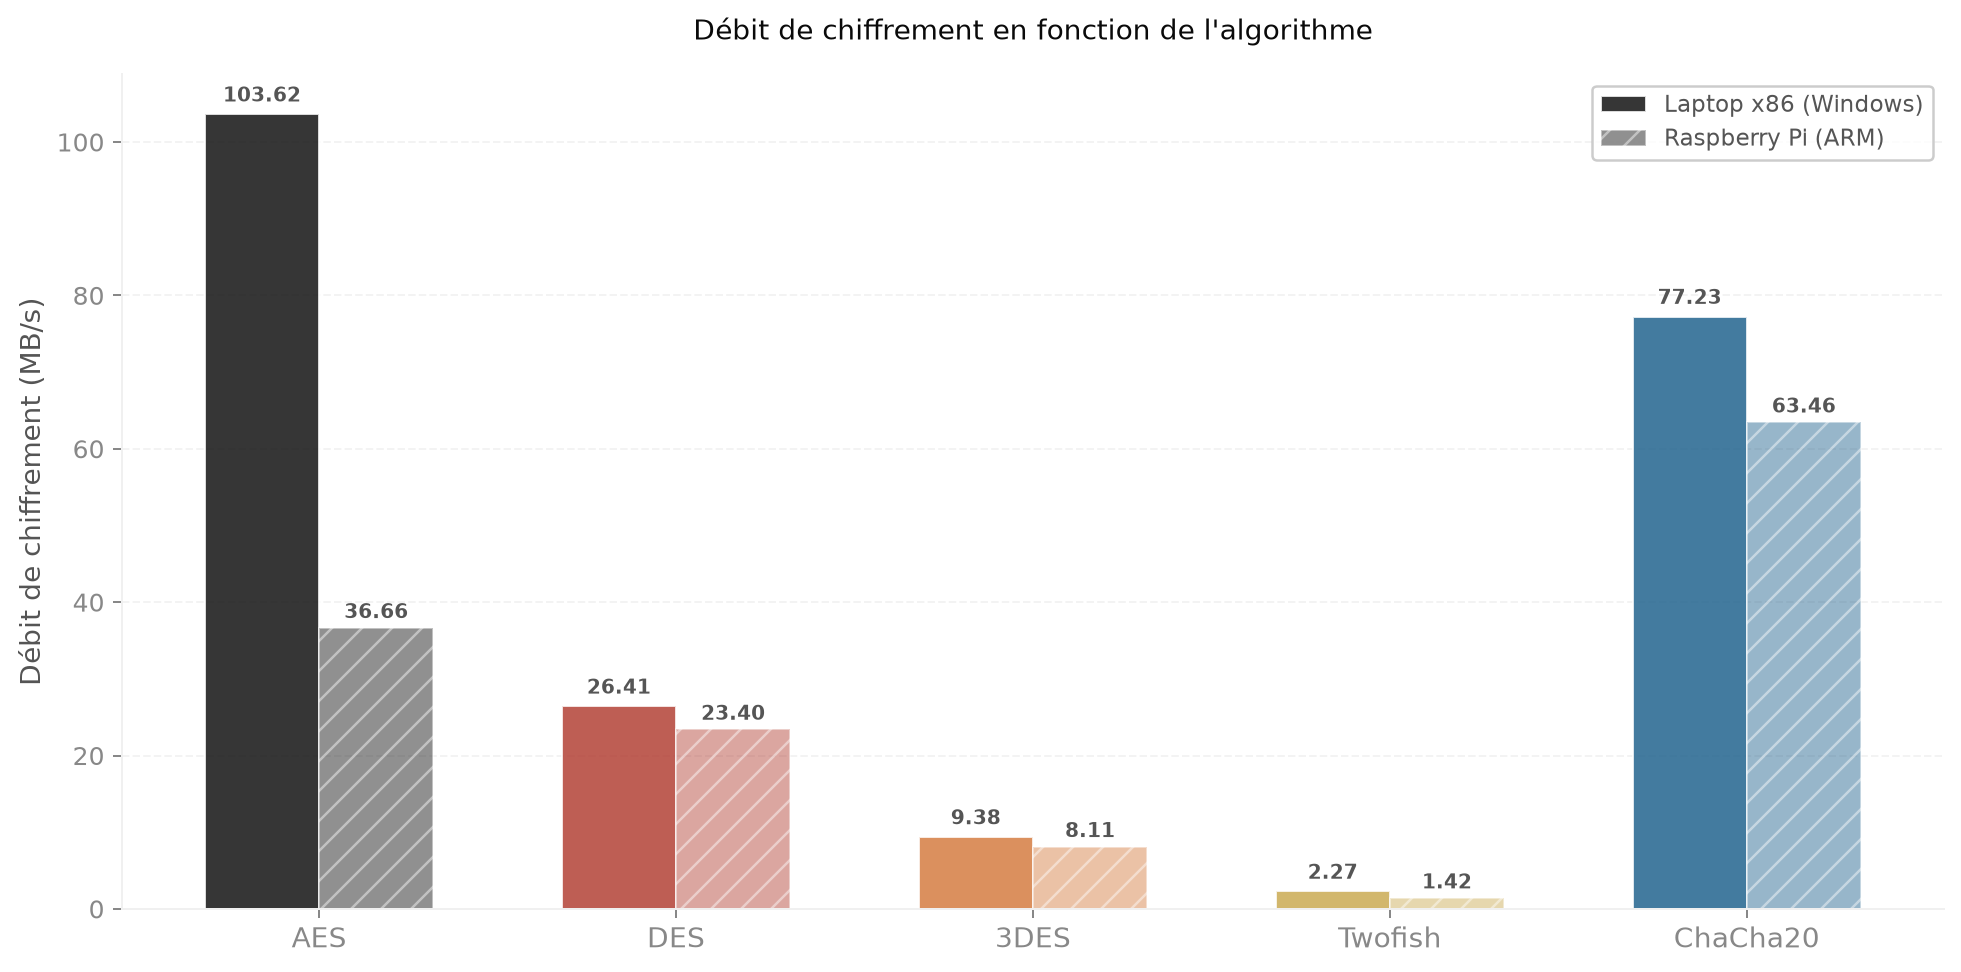
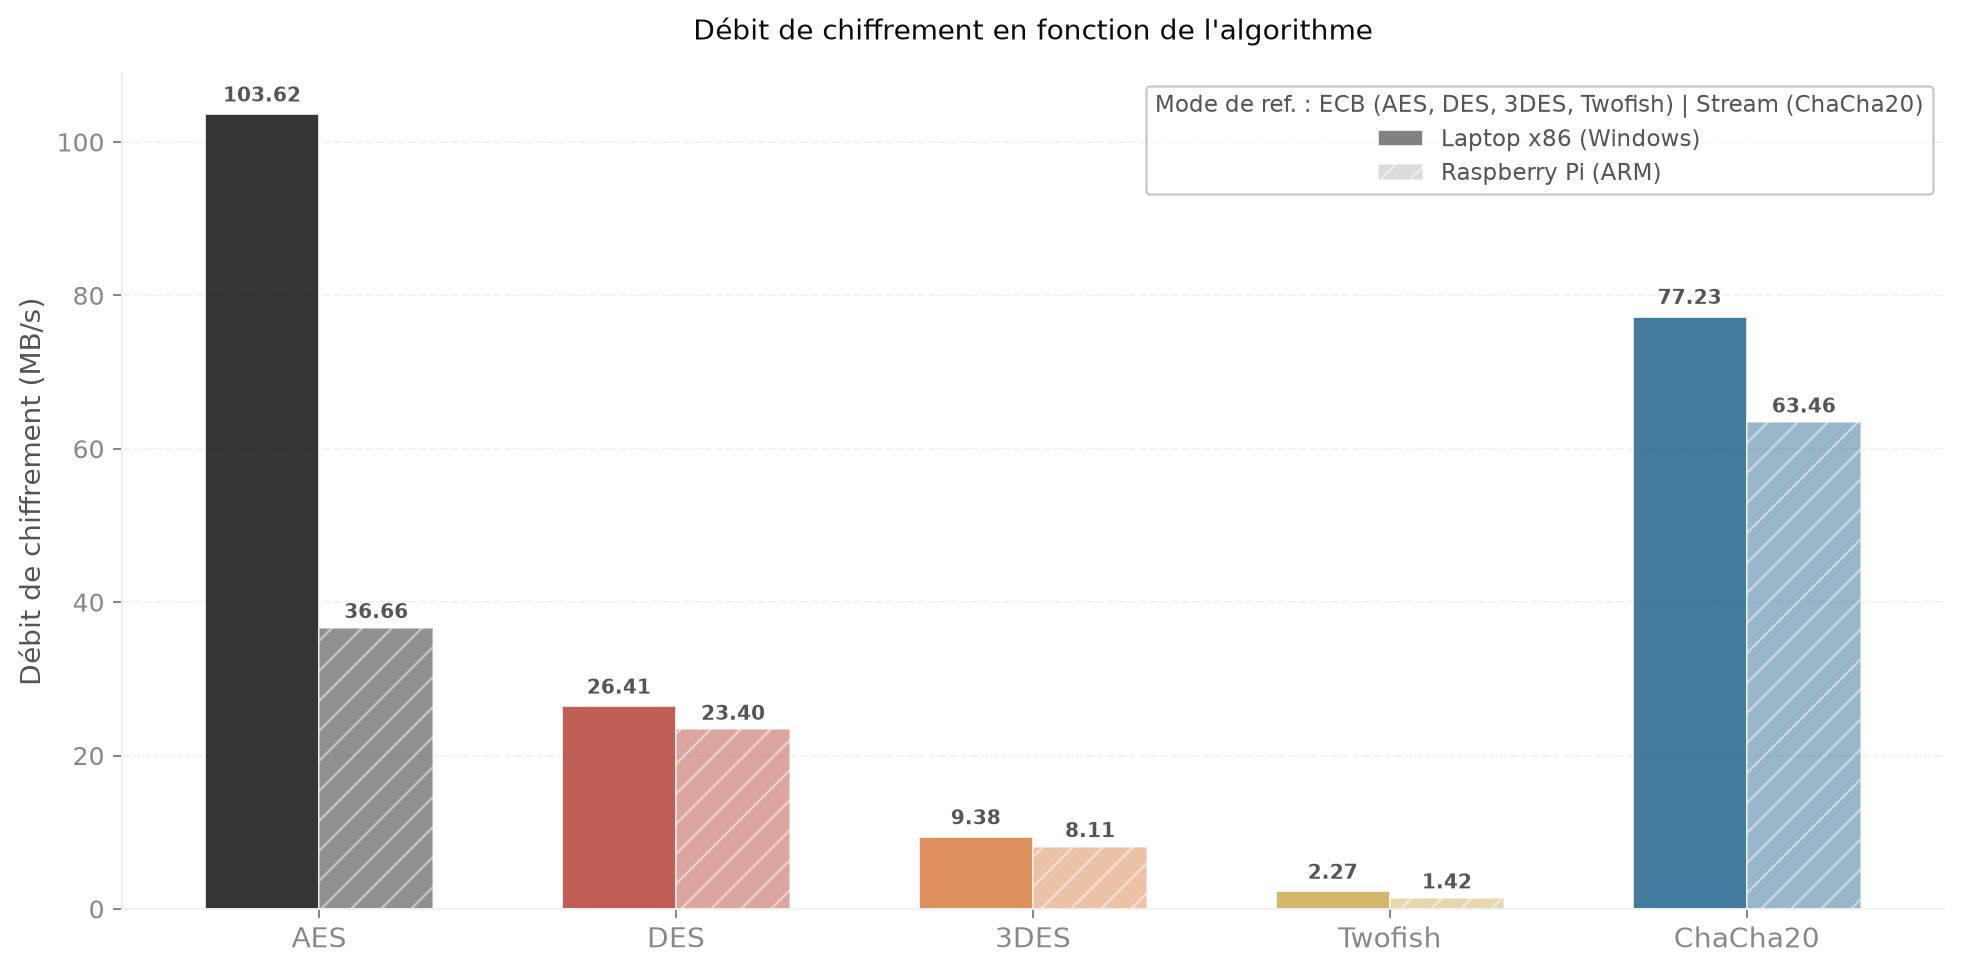
commit

Changed region(s): [[0.591, 0.0926, 0.9954, 0.216]]

diff --git a/crypto-experiments/scripts/charts/build_platform_comparison.py b/crypto-experiments/scripts/charts/build_platform_comparison.py
@@ -145,7 +145,29 @@ def cmp1_throughput_all():
         "Débit de chiffrement en fonction de l'algorithme",
         fontsize=11,
     )
-    ax.legend(fontsize=9)
+    legend_handles = [
+        mpatches.Patch(
+            facecolor="#666666",
+            edgecolor=BG_COLOR,
+            linewidth=0.8,
+            alpha=PLATFORM_STYLE["x86"]["alpha"],
+            label="Laptop x86 (Windows)",
+        ),
+        mpatches.Patch(
+            facecolor="#B0B0B0",
+            edgecolor=BG_COLOR,
+            linewidth=0.8,
+            alpha=PLATFORM_STYLE["pi"]["alpha"],
+            hatch="//",
+            label="Raspberry Pi (ARM)",
+        ),
+    ]
+    ax.legend(
+        handles=legend_handles,
+        fontsize=9,
+        title="Mode de ref. : ECB (AES, DES, 3DES, Twofish) | Stream (ChaCha20)",
+        title_fontsize=9,
+    )
     ax.yaxis.grid(True)
     ax.set_axisbelow(True)
     ax.spines["top"].set_visible(False)
